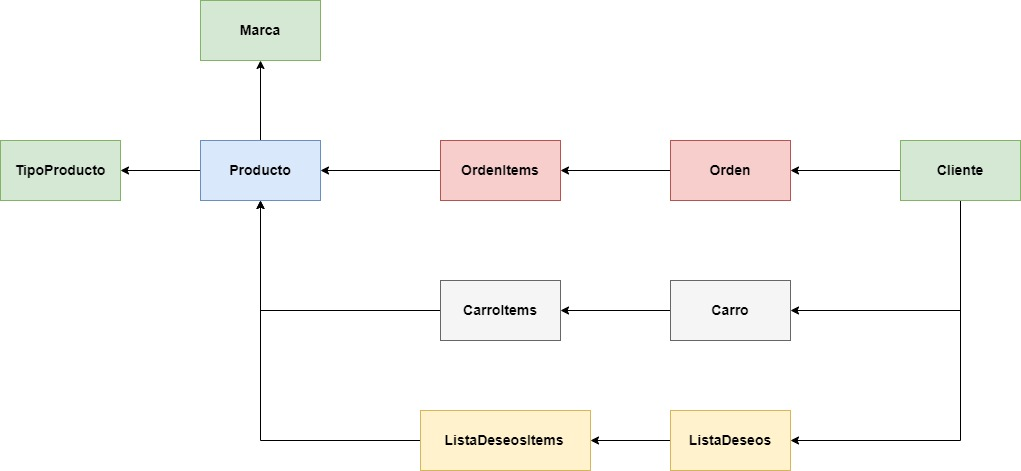
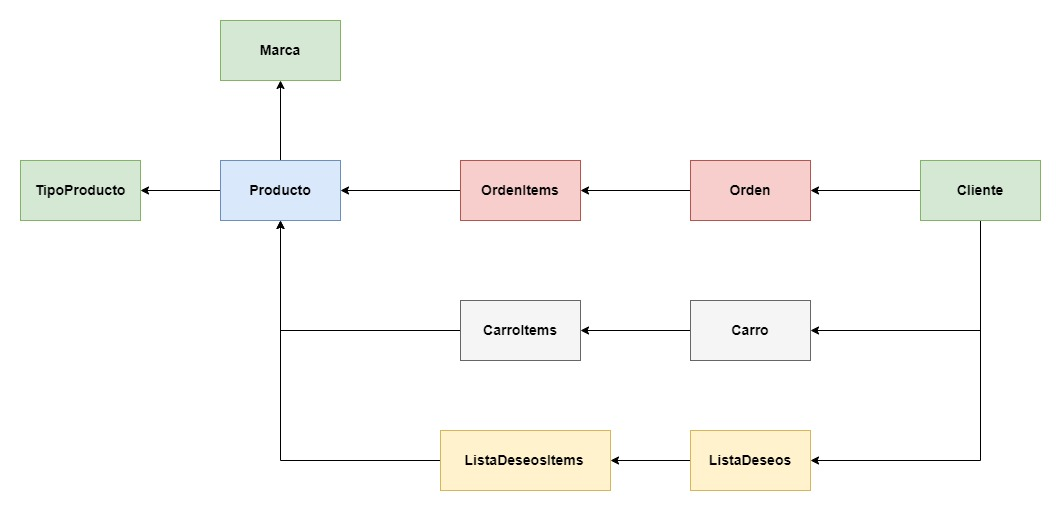
ReadmeCompleto

diff --git a/readme.md b/readme.md
@@ -1,1 +1,5 @@
+# Sistema de Comercio Electrónico - Danilo Pilacuán
+
+El presente proyecto refleja lo aprendido en el curso de capacitación de netCore, en el presente repositorio se encuentra la solución realizada, en ella se incluye la aplicación de todos los conocimientos adquiridos a lo largo del presente curso, de acuerdo a la especificación del proyecto se presenta el siguiente diagrama para detallar las clases utilizadas para la realización del mismo, cuyas clases adicionales han sido **ListaDeseos** y **ListaDeseosItem** las cuales sirven para la creación de una lista de deseos para cada cliente dentro del sistema de comercio electrónico, además como procesos de negocio se han añadido el control de existencias de los productos, es decir, cuando se añada una instancia de **ItemOrden** se restará la cantidad de productos añadidos del **Producto** cuyo **ProductoId** haya sido incluido en la solicitud, además como segundo proceso de negocio, con la adición de cada **ItemOrden** se recalculará la propiedad **Total** correspondiente a la **Orden** cuyo **OrdenId** haya sido especificado en la solicitud de creación de **ItemOrden**, el diagrama de clases utilizado se presenta a continuación.
+
 ![My Image](DiagramaProyecto.jpg)
